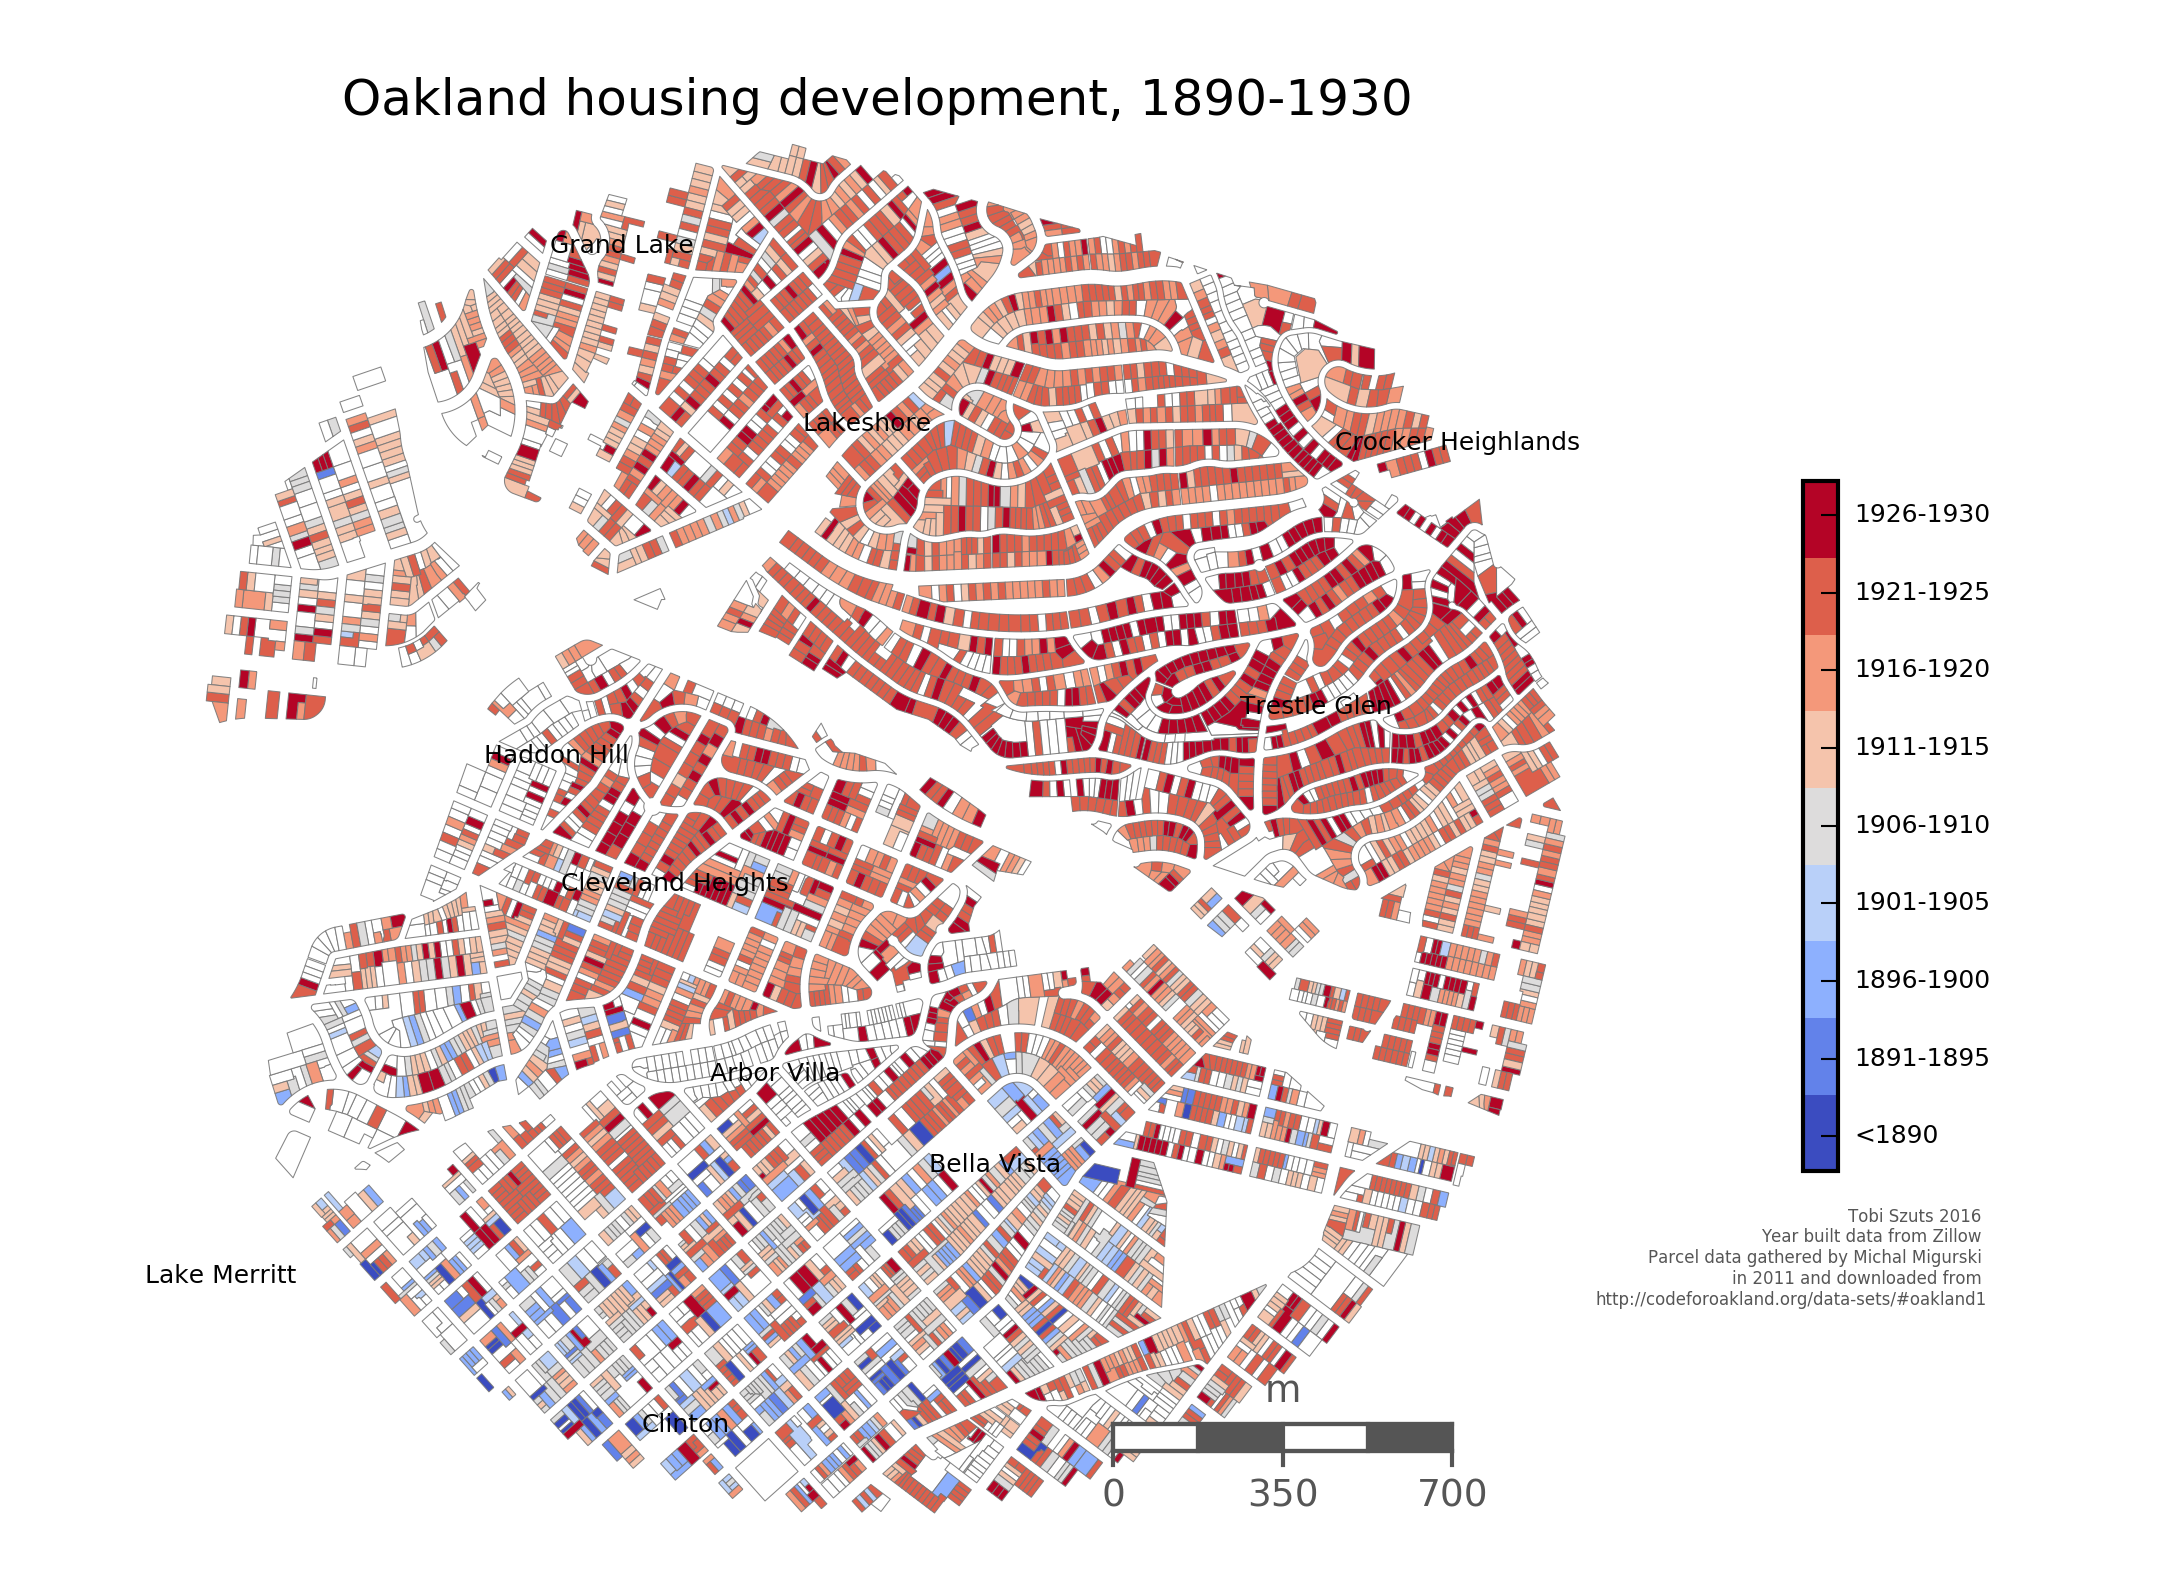
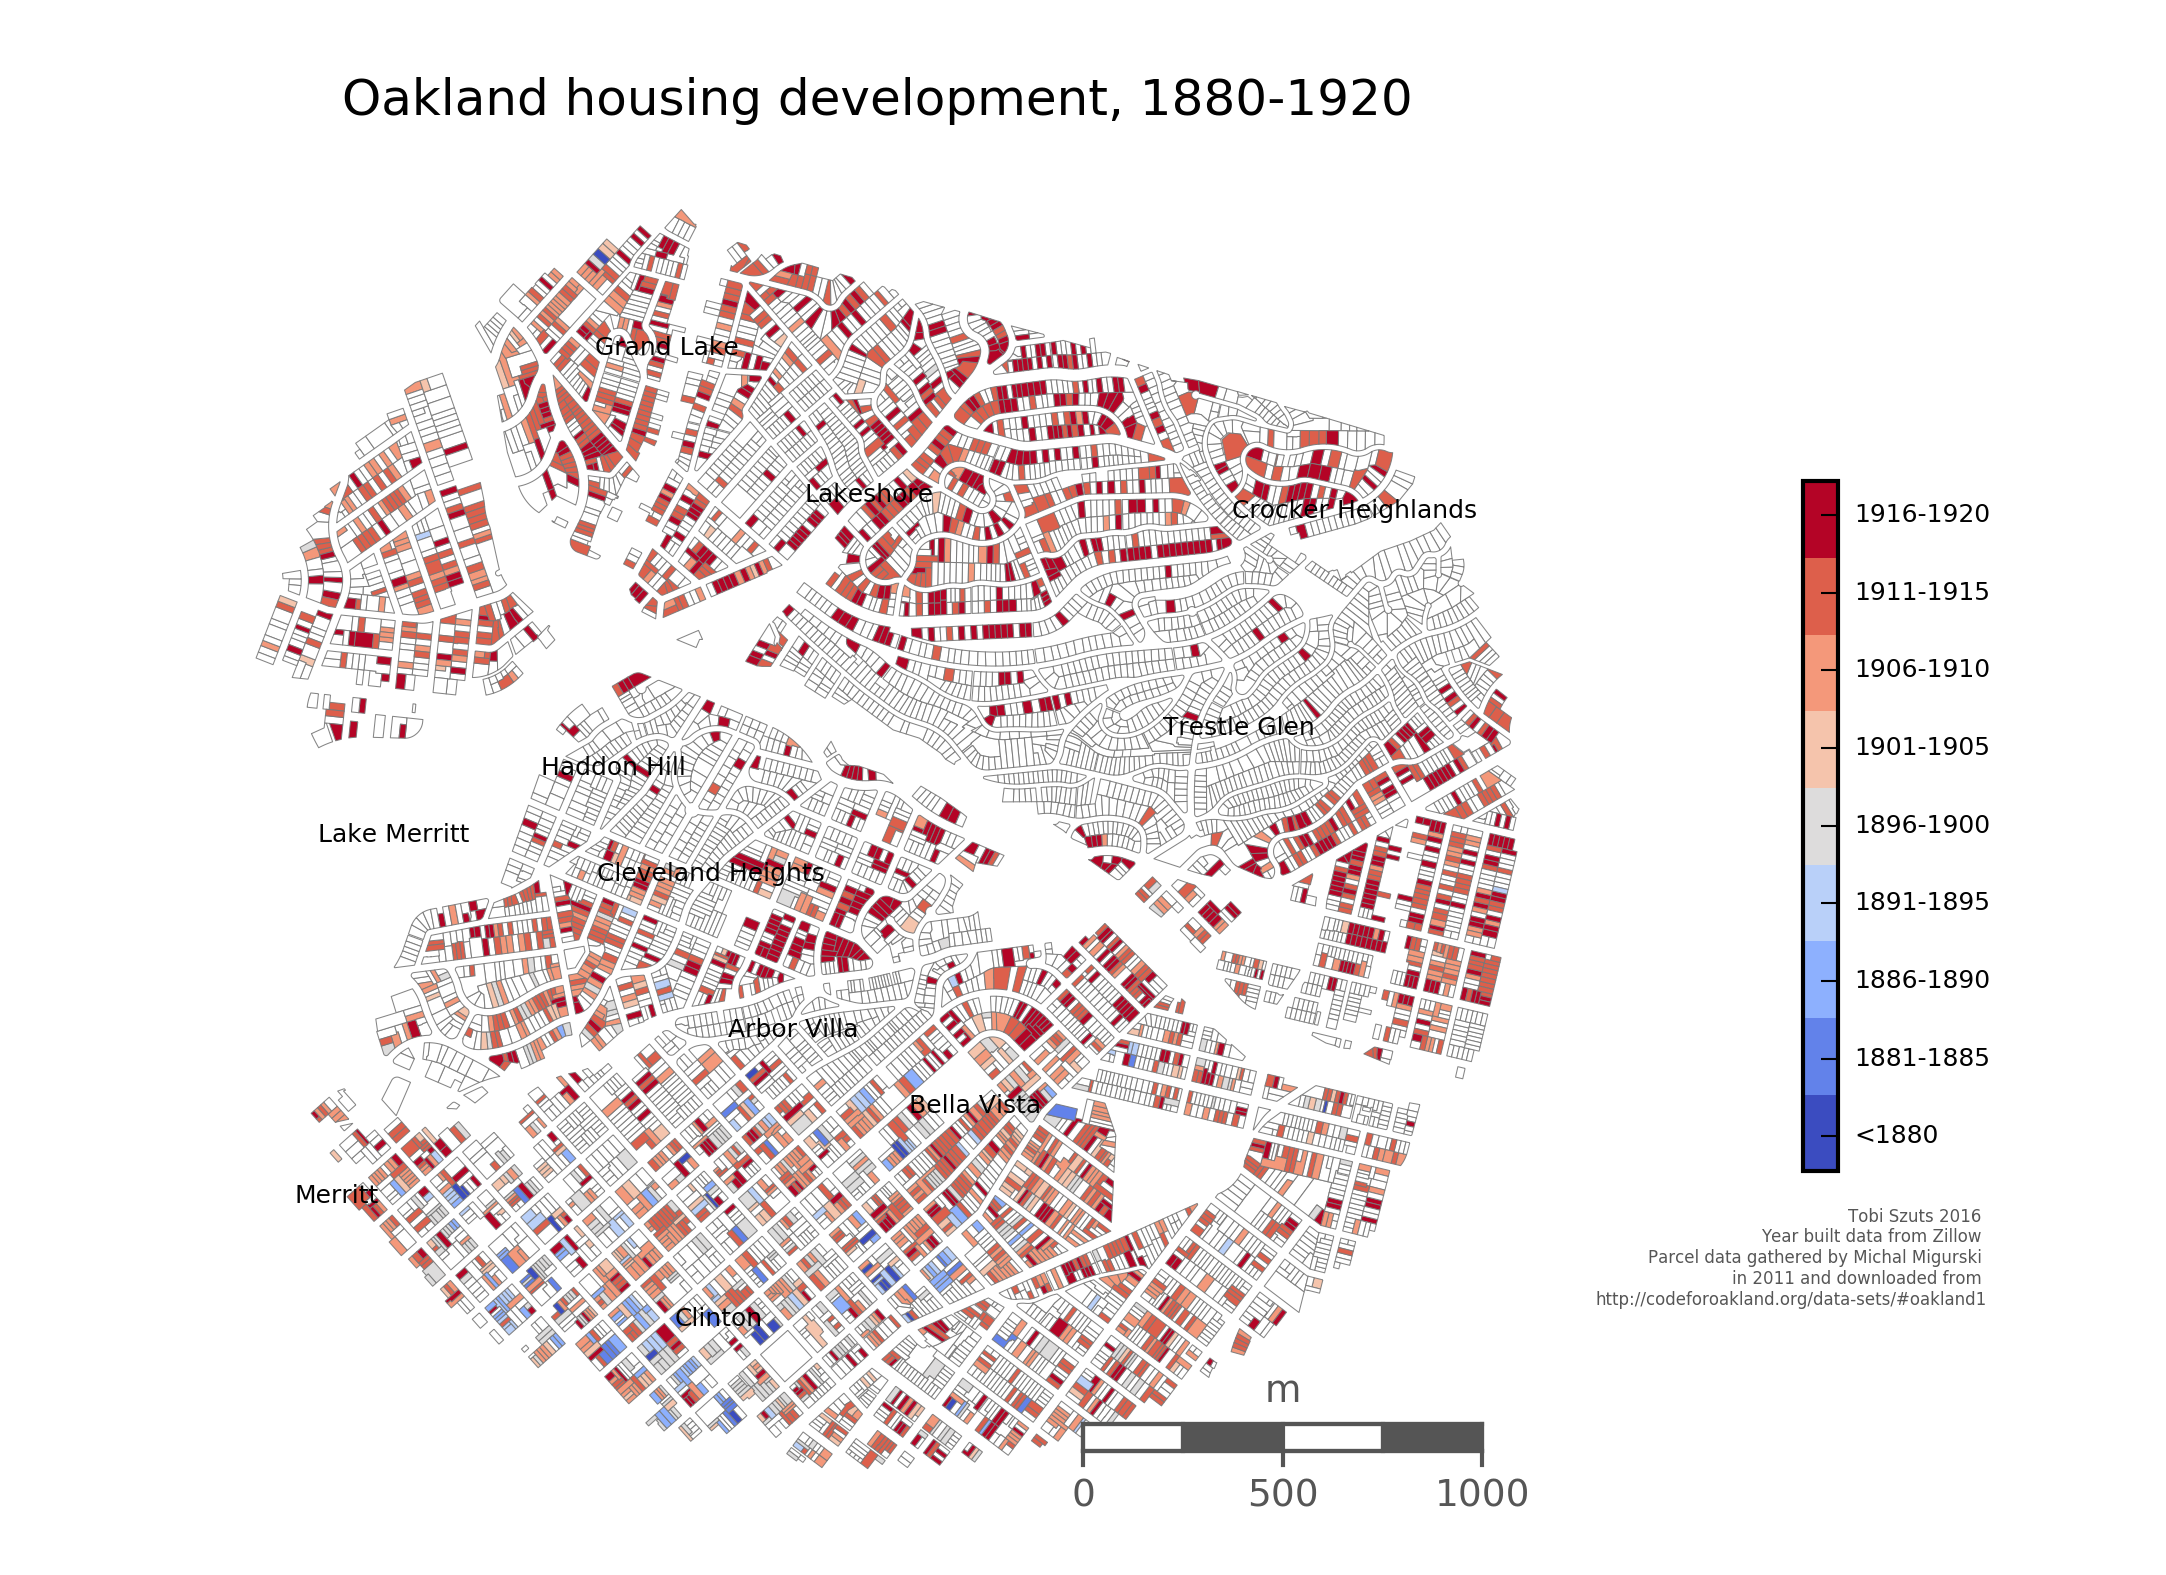
More improvements

Changed region(s): [[0.0928, 0.0933, 0.7424, 0.9644], [0.6187, 0.9022, 0.7114, 0.9644]]

diff --git a/DrawErrorMap.py b/DrawErrorMap.py
@@ -27,7 +27,7 @@ errorFile = 'data/Oakland_parcels_errors/Oakland_parcels_errors'
 
 # compute map boundscenter = (37.8058428, -122.2399758)        # (lat, long), Armenian Church
 center = geopy.Point(37.8058428, -122.2399758)        # (lat, long), Armenian Church
-radius = 2                         # in km
+radius = 2                        # in km
 ur = distance(kilometers=radius).destination(center, +45)
 ll = distance(kilometers=radius).destination(center, -135)
 ur = (ur.longitude, ur.latitude)
@@ -74,15 +74,22 @@ df_map['patches'] = df_map['poly'].map(lambda x: PolygonPatch(
     ec='#888888', lw=.25, alpha=.9,
     zorder=4))
 
-# create colormap based on year built
-cmap_range = (1880, 1940)
-ncolors = 8
-yearBuilt_bins = np.linspace(min(cmap_range), max(cmap_range), ncolors+1)
-#norm = matplotlib.colors.Normalize(vmin=min(cmap_range), vmax=max(cmap_range))
-cmap = matplotlib.cm.coolwarm
-cmap.set_bad(color='white')       # if yearBuilt is nan
-norm = matplotlib.colors.BoundaryNorm(yearBuilt_bins, ncolors)
-#setColor = matplotlib.cm.ScalarMappable(norm=norm, cmap=cmap)
+# color code the errors
+for (yb, p, i) in zip(df_map.yearBuilt, df_map.patches, range(50000)) :
+    if np.isnan(yb) :
+        p.set_color('green')
+    elif yb<1830 :          # because the oldest building in Oakland is from the 1850s
+        p.set_color('blue')
+    elif yb>2016 :
+        p.set_color('magenta')
+    
+## create colormap based on year built
+#cmap_range = (1880, 1940)
+#ncolors = 8
+#yearBuilt_bins = np.linspace(min(cmap_range), max(cmap_range), ncolors+1)
+#cmap = matplotlib.cm.coolwarm
+#cmap.set_bad(color='white')       # if yearBuilt is nan
+#norm = matplotlib.colors.BoundaryNorm(yearBuilt_bins, ncolors)
 
 m.readshapefile(
     errorFile,
@@ -102,20 +109,13 @@ df_map_error['patches'] = df_map_error['poly'].map(lambda x: PolygonPatch(
     ec='black', lw=.25, alpha=.9,
     zorder=4))
 
-
-## transform data_errors dictionary into an array
-#data_errors_points = pd.Series([Point(m(e['value']['centroid'][1], 
-#                                        e['value']['centroid'][0]))
-#                        for e in data_errors])
-
 plt.clf()
 fig = plt.figure()
 ax = fig.add_subplot(111, axisbg='w', frame_on=False)
 
 # plot boroughs by adding the PatchCollection to the axes instance
-pc = PatchCollection(df_map['patches'].values, match_original=True)
-#pc.set_facecolor(cmap(norm(df_map.yearBuilt)/ncolors));
-ax.add_collection(pc)
+ax.add_collection(PatchCollection(df_map['patches'].values, match_original=True))
+ax.add_collection(PatchCollection(df_map_error['patches'].values, match_original=True))
 
 ## draw errors as points
 #dev = m.scatter([p.x for p in data_errors_points], [p.y for p in data_errors_points],
@@ -124,16 +124,26 @@ ax.add_collection(pc)
 #          alpha=0.9, antialiased=True,
 #          label='Error Locations')
 
-ax.add_collection(PatchCollection(df_map_error['patches'].values, match_original=True))
+ncolors = 2
+cmap = matplotlib.colors.ListedColormap(['b', 'r'])
+norm = matplotlib.colors.BoundaryNorm([0, 10, 20], ncolors)
+error_labels = ['Invalid date', 'Address not \nin Zillow']
+cb = colorbar_index(ncolors=ncolors, cmap=cmap, shrink=0.25, 
+                    labels=error_labels, aspect=10)
 
+cb.ax.tick_params(labelsize=6)
+cb.ax.tick_params(size=0)
 
-yearBuilt_labels = ['%.0f-%.0f' % (yearBuilt_bins[i], yearBuilt_bins[i+1])
-                        for i in range(ncolors)]
-#yearBuilt_labels[0] = '<%.0f' % yearBuilt_bins[1]
-yearBuilt_labels.append('>%.0f' % yearBuilt_bins[-1])
-
-#cb = colorbar_index(ncolors=ncolors+1, cmap=cmap, shrink=0.5, labels=yearBuilt_labels)
-#cb.ax.tick_params(labelsize=6)
+neighborhoods = NeighborhoodLabels()
+for (k, v) in neighborhoods.items() :
+    pos = m(v[1], v[0])
+    if window_polygon.contains(Point(pos)) is True :
+#        print(k,v)
+        ax.text(pos[0], pos[1],
+        k,
+        ha='center', va='center',
+        size=6,
+        color='black')
 
 # Draw a map scale
 m.drawmapscale(
@@ -142,14 +152,12 @@ m.drawmapscale(
     radius/2*1000,   # length
     barstyle='fancy', labelstyle='simple',
     units = 'm',
-#    format='%.2f',
     fillcolor1='w', fillcolor2='#555555',
     fontcolor='#555555',
     zorder=4)
-plt.title("Parcels in Oakland returning an error from Zillow")
+plt.title("Parcels in Oakland with an error")
 plt.tight_layout()
 # this will set the image width to 722px at 100dpi
 fig.set_size_inches(7.22, 5.25)  # use for larger size
-#fig.set_size_inches(3.5, 2.5)
 plt.savefig('data/Oakland_temp.png', dpi=300, alpha=True)
 plt.show()

diff --git a/DrawParcelChoropleth.py b/DrawParcelChoropleth.py
@@ -73,7 +73,7 @@ baseFile = 'data/Oakland_parcels_queried/Oakland_parcels_queried'
 
 # compute map boundscenter = (37.8058428, -122.2399758)        # (lat, long), Armenian Church
 center = geopy.Point(37.8058428, -122.2399758)        # (lat, long), Armenian Church
-radius = 1.4                           # in km
+radius = 1.7                           # in km
 ur = distance(kilometers=radius*2**0.5).destination(center, +45)
 ll = distance(kilometers=radius*2**0.5).destination(center, -135)
 ur = (ur.longitude, ur.latitude)
@@ -125,8 +125,8 @@ df_map['patches'] = df_map['poly'].map(lambda x: PolygonPatch(
     zorder=4))
 
 # create colormap based on year built
+#cmap_range = (1915.5, 1960.5)
 cmap_range = (1915.5, 1960.5)
-#cmap_range = (cmap_range[0]-(cmap_range[1]-cmap_range[0])/(ncolors-1), cmap_range[1])
 ncolors = 9
 yearBuilt_bins = np.linspace(min(cmap_range), max(cmap_range), ncolors+1)
 cmap = matplotlib.cm.coolwarm
@@ -137,7 +137,6 @@ norm = matplotlib.colors.BoundaryNorm(yearBuilt_bins, ncolors)
 df_map['color'] = norm(df_map.yearBuilt) 
 # normalization changes nans to -1, same as underflow
 df_map['color'][df_map.yearBuilt<1700] = -2
-#df_map
 
 plt.clf()
 fig = plt.figure()
@@ -145,22 +144,15 @@ ax = fig.add_subplot(111, axisbg='w', frame_on=False)
 
 # plot parcels by adding the PatchCollection to the axes instance
 pc = PatchCollection(df_map['patches'].values, match_original=True)
-#pc.set_facecolor(cmap(norm(df_map.yearBuilt)/(ncolors-1)))
 pc.set_facecolor(cmap(np.ma.masked_less_equal(list(df_map.color), -2)/(ncolors-1)))
 ax.add_collection(pc)
 
 yearBuilt_labels = ['%.0f-%.0f' % (np.ceil(yearBuilt_bins[i]), np.floor(yearBuilt_bins[i+1]))
                         for i in range(ncolors)]
-#yearBuilt_labels.append('>%.0f' % yearBuilt_bins[-1])
 yearBuilt_labels[0] = '<%.0f' % yearBuilt_bins[1]
 
-#yearBuilt_bins = np.insert(yearBuilt_bins, 0, 1700)
-#yearBuilt_bins = np.append(yearBuilt_bins, 2016)
 cb = colorbar_index(ncolors=ncolors, cmap=cmap, shrink=0.5, 
                     labels=yearBuilt_labels)
-#                    boundaries = [i for i in range(ncolors+1)])
-#                    , extend='both')
-#                    boundaries = [1700] + list(yearBuilt_bins) + [2016])
 cb.ax.tick_params(labelsize=6)
 
 # copyright and source data info
@@ -176,13 +168,13 @@ neighborhoods = NeighborhoodLabels()
 for (k, v) in neighborhoods.items() :
     pos = m(v[1], v[0])
     if window_polygon.contains(Point(pos)) is True :
-        print(k,v)
         ax.text(pos[0], pos[1],
         k,
         ha='center', va='center',
         size=6,
         color='black')
-    
+
+# code to plot a point, used for verifying a new coordinate   
 #pos_fidicual = m(-122.2436564, 37.813227)    
 #dev = m.scatter(
 #    pos_fidicual[0], pos_fidicual[1],
@@ -198,7 +190,6 @@ m.drawmapscale(
     1000,   # length, in m
     barstyle='fancy', labelstyle='simple',
     units = 'm',
-#    format='%.2f',
     fillcolor1='w', fillcolor2='#555555',
     fontcolor='#555555',
     zorder=4)
@@ -206,6 +197,5 @@ plt.title("Oakland housing development, 1920-1960")
 plt.tight_layout()
 # this will set the image width to 722px at 100dpi
 fig.set_size_inches(7.22, 5.25)  # use for larger size
-#fig.set_size_inches(3.5, 2.5)
 plt.savefig('data/Oakland_temp.png', dpi=300, alpha=True)
 plt.show()
